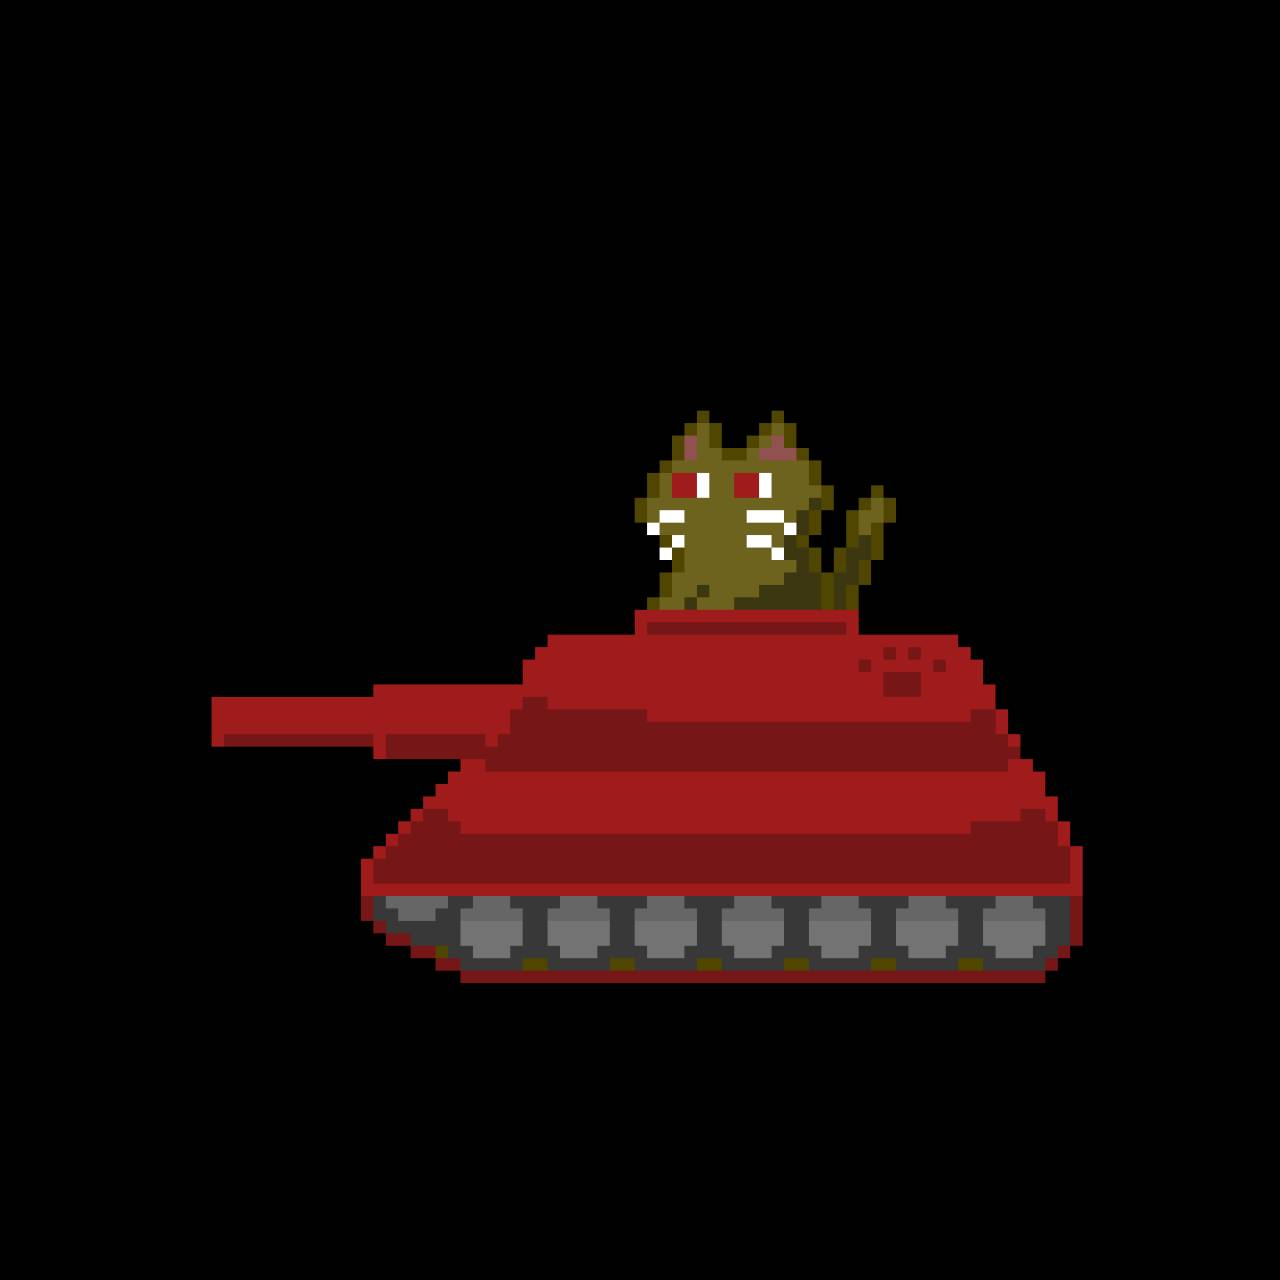
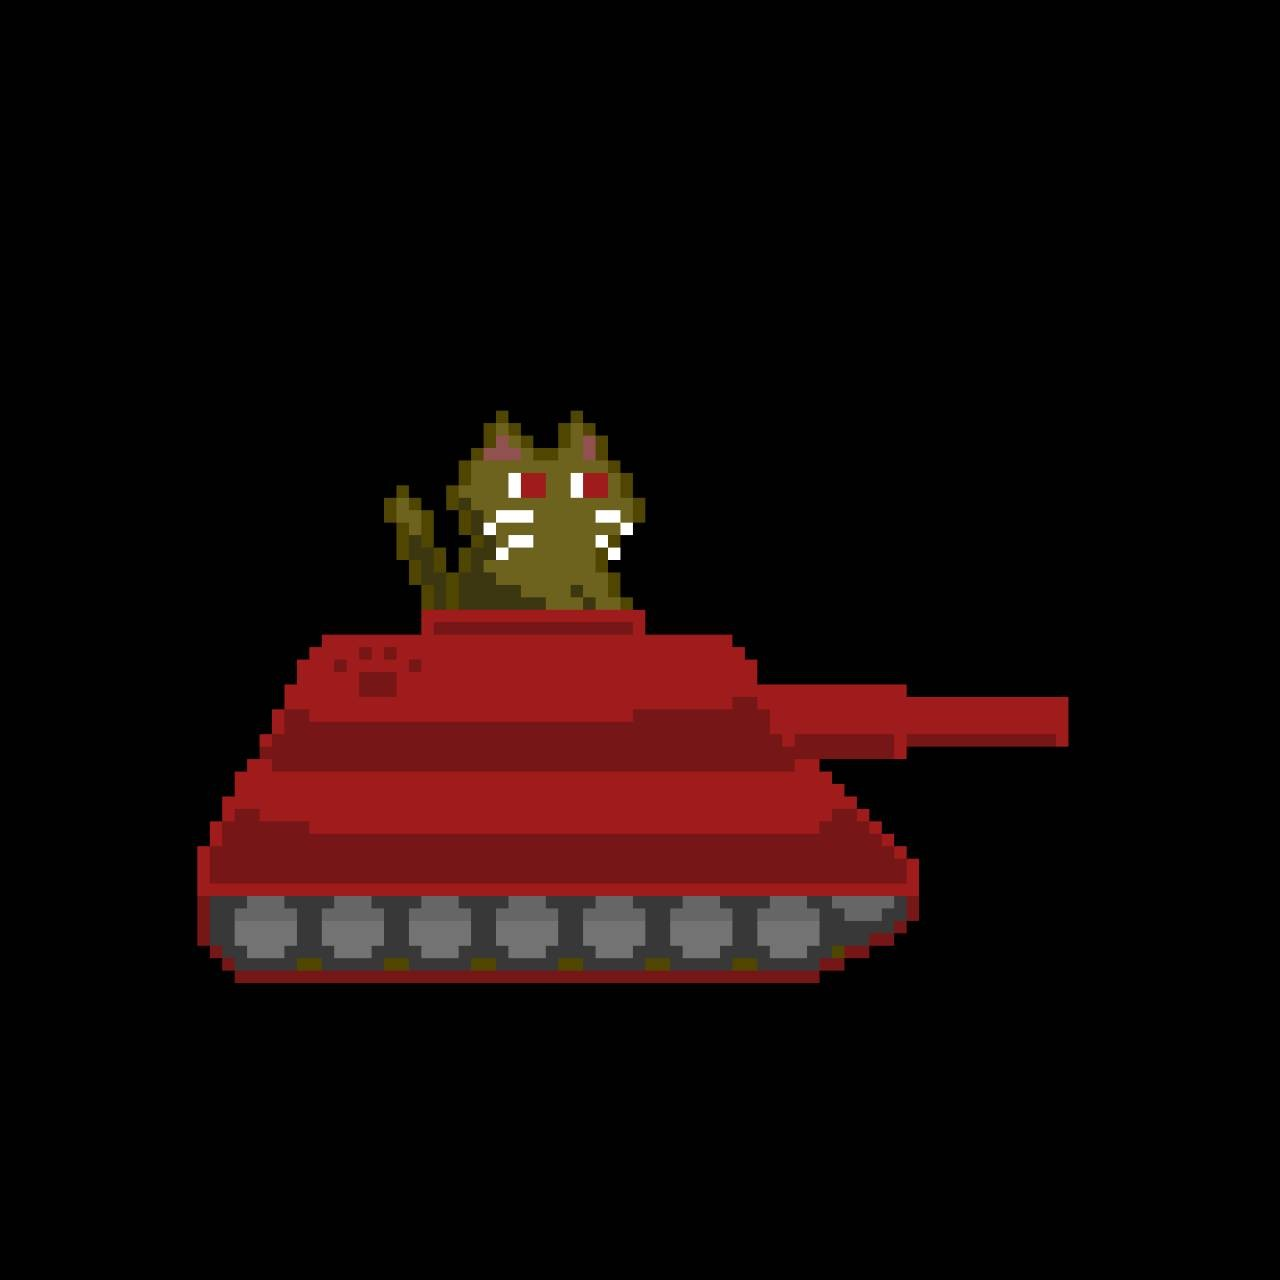
Add: Image rotation

Changed region(s): [[0.1562, 0.3125, 0.8438, 0.7812]]

diff --git a/source/game_system.py b/source/game_system.py
@@ -115,6 +115,9 @@ class GameWidgetBase(Widget):
         if self.platform != "android":
             Window.bind(on_key_down=self._on_key_down, on_key_up=self._on_key_up)
 
+        # 現在タンクが左を向いているか
+        self.current_facing_left = True  # ← ここを追加
+
     # --- 背景更新 ---
     def _update_bg(self, *args):
         self.bg_rect.pos = (0, 0)
@@ -174,6 +177,29 @@ class GameWidgetBase(Widget):
         new_y = self.full_tank.y + self.vy
         tank_w, tank_h = self.full_tank.size
 
+        # --- 画面端補正 ---
+        if new_x < 0: new_x, self.vx = 0, -self.vx * self.bounce
+        elif new_x + tank_w > self.width: new_x, self.vx = self.width - tank_w, -self.vx * self.bounce
+        if new_y < 0: new_y, self.vy = 0, -self.vy * self.bounce
+        elif new_y + tank_h > self.height: new_y, self.vy = self.height - tank_h, -self.vy * self.bounce
+
+
+         # 壁補正
+        for wall in self.walls:
+            wx, wy, ww, wh = wall.x, wall.y, wall.width, wall.height
+            if (new_x < wx + ww and new_x + self.full_tank.width > wx and
+                new_y < wy + wh and new_y + self.full_tank.height > wy):
+                # 水平方向
+                if self.full_tank.x + self.full_tank.width <= wx or self.full_tank.x >= wx + ww:
+                    self.vx = -self.vx * self.bounce
+                    new_x = self.full_tank.x + self.vx
+                # 垂直方向
+                if self.full_tank.y + self.full_tank.height <= wy or self.full_tank.y >= wy + wh:
+                    self.vy = -self.vy * self.bounce
+                    new_y = self.full_tank.y + self.vy
+
+
+        '''
         # --- 画面端衝突 ---
         if new_x < 0: new_x, self.vx = 0, -self.vx * self.bounce
         elif new_x + tank_w > self.width: new_x, self.vx = self.width - tank_w, -self.vx * self.bounce
@@ -195,6 +221,15 @@ class GameWidgetBase(Widget):
                     self.vy = -self.vy * self.bounce
                     if self.vy > 0: new_y = wy + w_h
                     else: new_y = wy - tank_h
+        '''
+        # --- 左右自動反転 ---
+        if self.vx > 0.1 and self.full_tank.facing_left:
+            self.full_tank.flip_horizontal(False)  # 右向き
+            print('Right')
+        elif self.vx < -0.1 and not self.full_tank.facing_left:
+            self.full_tank.flip_horizontal(True)  # 左向き
+            print('Left')
+                       
 
         self.full_tank.pos = (new_x, new_y)
 

diff --git a/source/full_tank.py b/source/full_tank.py
@@ -1,26 +1,46 @@
-import os
-from kivy.uix.widget import Widget
+from kivy.graphics import PushMatrix, PopMatrix, Scale, Translate
+from kivy.uix.widget import Widget 
 from kivy.uix.image import Image
+import os
 
 class FullTank(Widget):
     def __init__(self, **kwargs):
         super().__init__(**kwargs)
-
         self.size = (100, 100)
-
-        # APK でも動くように絶対パスを取得
         resource_path = os.path.join(os.path.dirname(__file__), "resource", "tankImage", "red", "full.jpg")
-        resource_path = os.path.abspath(resource_path)
-
-        self.image = Image(
-            source=resource_path,
-            size_hint=(None, None),
-            size=self.size,
-            pos=self.pos
-        )
+        self.image = Image(source=os.path.abspath(resource_path), size=self.size, pos=self.pos)
         self.add_widget(self.image)
 
-        self.bind(pos=self._sync_image)
+        self.facing_left = True
+
+        # --- 反転用に最初から Canvas に追加 ---
+        with self.image.canvas.before:
+            self._push = PushMatrix()
+            self._scale = Scale(1, 1, 1, origin=self.center)
+        with self.image.canvas.after:
+            self._pop = PopMatrix()
+
+        self.bind(pos=self._sync_image, size=self._sync_image)
+
+    def _get_origin(self):
+            # 左右反転の基準点は常に画像の中央
+            return (self.center_x, self.center_y)
 
     def _sync_image(self, *args):
         self.image.pos = self.pos
+        self.image.size = self.size
+        self._scale.origin = self._get_origin()
+
+    def flip_horizontal(self, left: bool):
+        if left == self.facing_left:
+            return
+        self.facing_left = left
+
+        # 左右の基準点を更新（左向きのときは右端を基準に）
+        if left:
+            origin_x = self.x + self.width  # 右端を基準に反転
+        else:
+            origin_x = self.x              # 左端を基準に反転
+
+        self._scale.origin = (origin_x, self.center_y)
+        self._scale.x = -1 if left else 1
